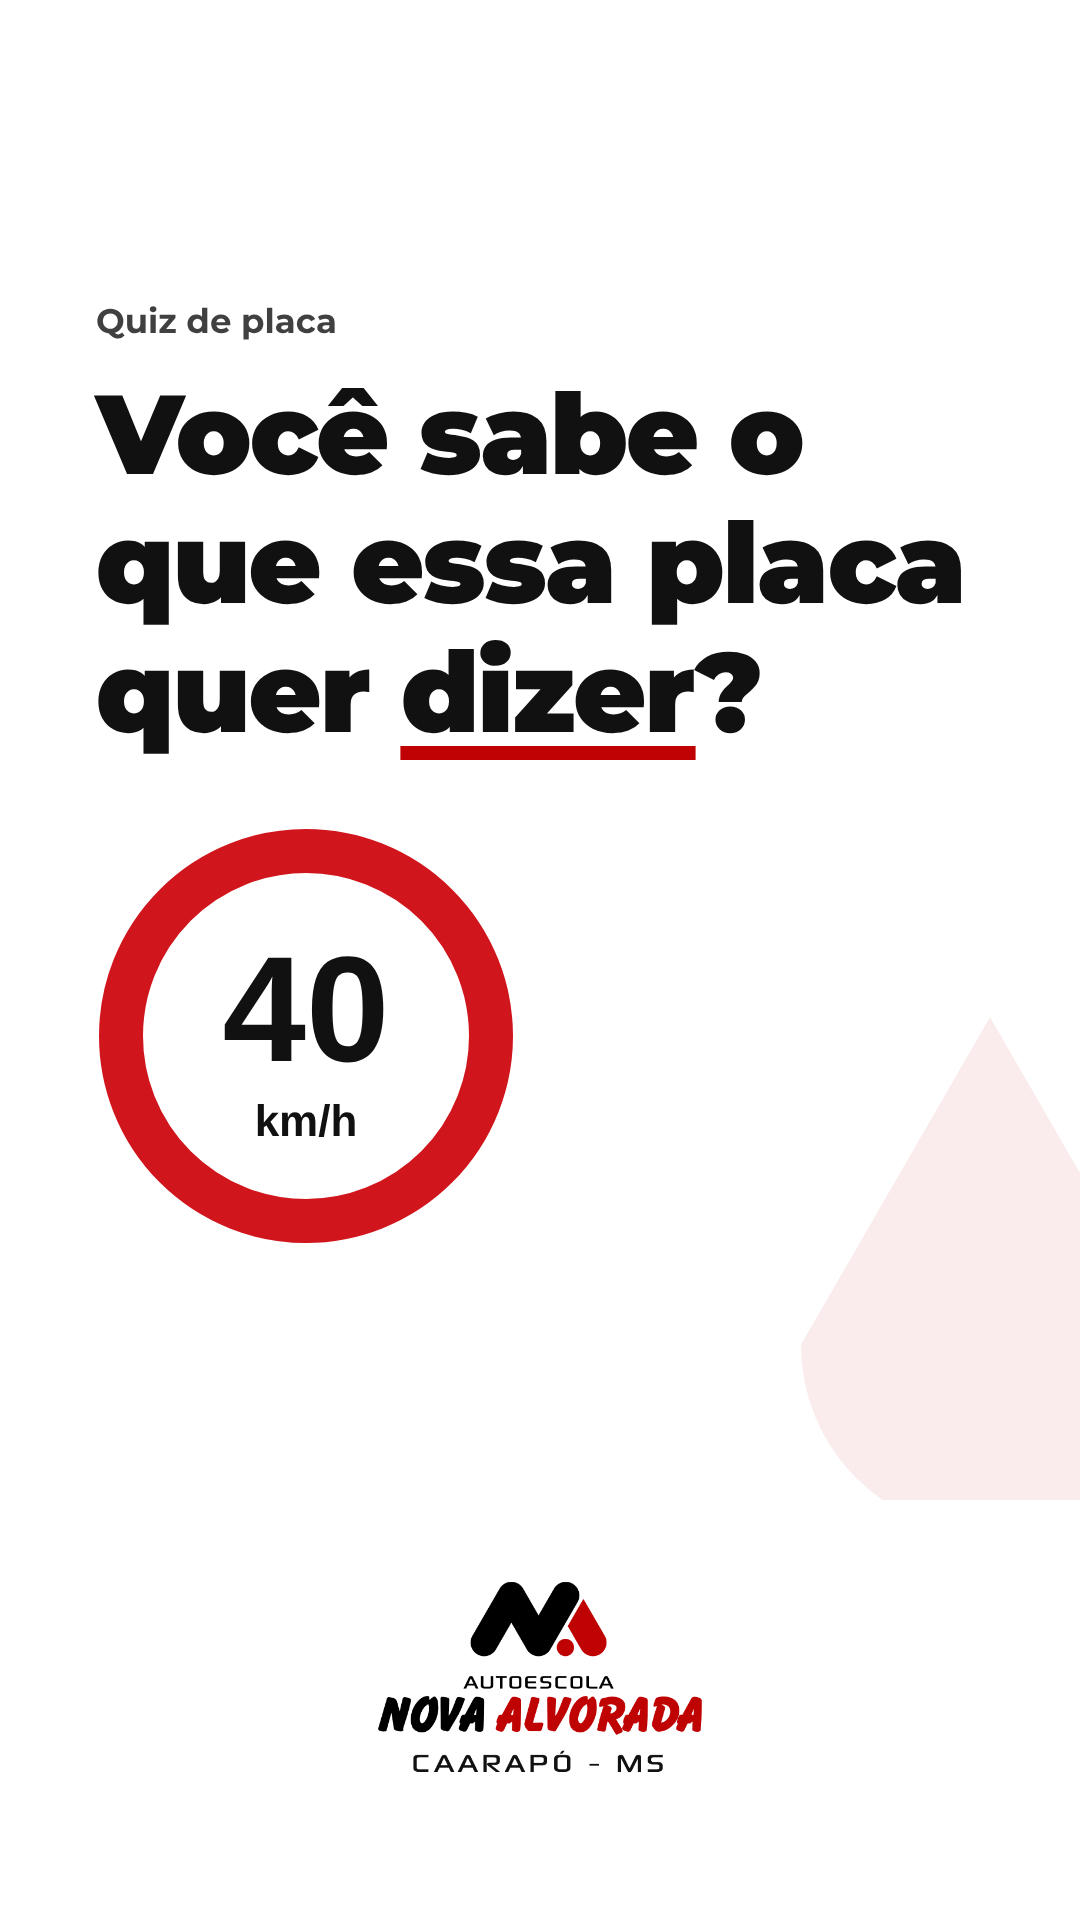
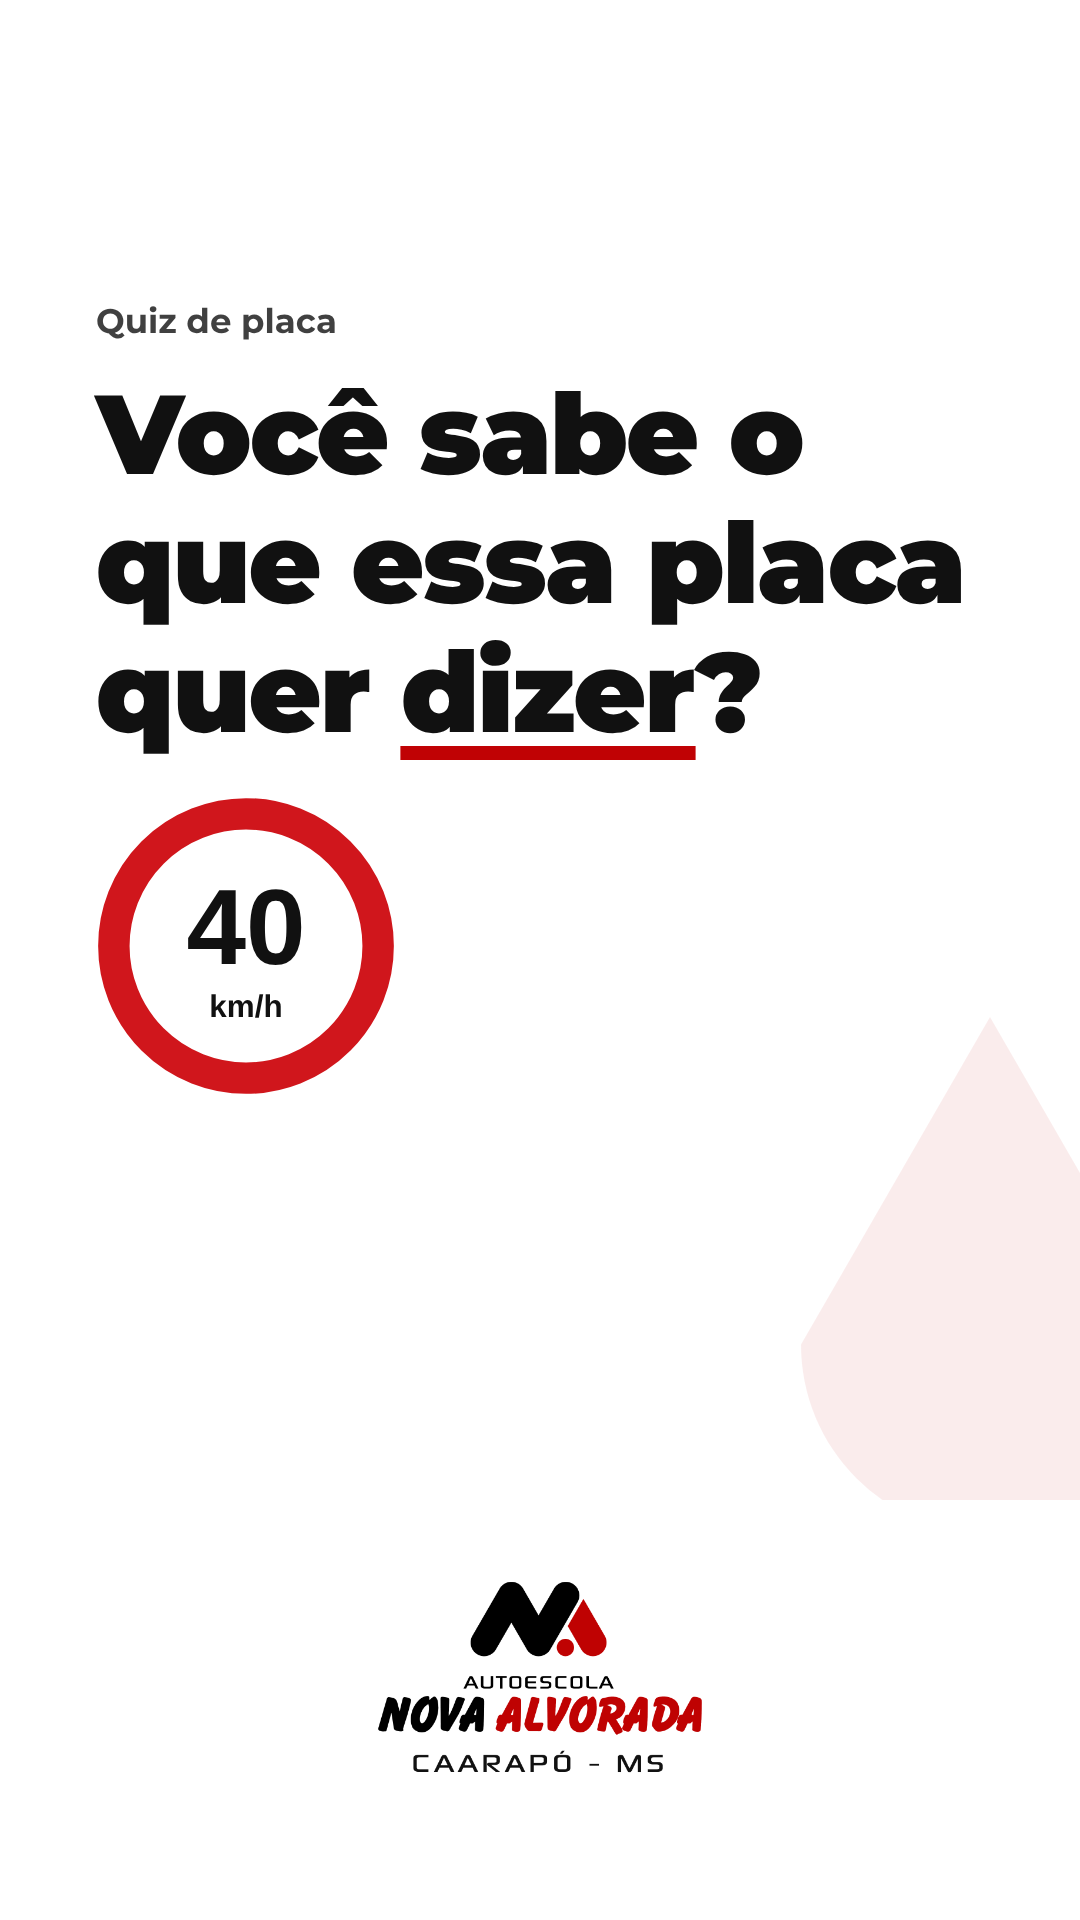
Robô: sticker no centro do espaço vazio da arte e não publica se não couber; placa de 07/11 menor
Claude-Session: https://claude.ai/code/session_01B5TzXn5urrJEAUWayRrMFS

Changed region(s): [[0.0917, 0.4062, 0.4889, 0.6562]]

diff --git a/scripts/artes/gerar_semana_2026-11-02.js b/scripts/artes/gerar_semana_2026-11-02.js
@@ -24,7 +24,7 @@ const box=(bg,t,logo='')=>`<!doctype html><html><head><meta charset="utf-8">${FO
 body{background:${bg};color:#fff}h1 em,.sub em{font-style:normal;background:#fff;color:${bg};padding:0 14px;border-radius:10px;-webkit-box-decoration-break:clone;box-decoration-break:clone}
 </style></head><body><div class="w"><div class="k">${t.k}</div><h1>${t.h}</h1>${t.sub?`<div class="sub">${t.sub}</div>`:''}</div>${logo}</body></html>`;
 const ENG='#0f3b40', CI='#2a1b8f', ciLogo=`<img class="logo" style="height:150px;border-radius:28px" src="${img('cfcint.jpg','jpeg')}">`;
-const r19=`<svg width="420" height="420" viewBox="0 0 420 420" style="margin-top:70px"><circle cx="210" cy="210" r="185" fill="#fff" stroke="#d0161c" stroke-width="44"/><text x="210" y="235" text-anchor="middle" font-family="Arial Black,Arial" font-weight="900" font-size="150" fill="#111">40</text><text x="210" y="310" text-anchor="middle" font-family="Arial" font-weight="700" font-size="44" fill="#111">km/h</text></svg>`;
+const r19=`<svg width="300" height="300" viewBox="0 0 420 420" style="margin-top:40px"><circle cx="210" cy="210" r="185" fill="#fff" stroke="#d0161c" stroke-width="44"/><text x="210" y="235" text-anchor="middle" font-family="Arial Black,Arial" font-weight="900" font-size="150" fill="#111">40</text><text x="210" y="310" text-anchor="middle" font-family="Arial" font-weight="700" font-size="44" fill="#111">km/h</text></svg>`;
 
 const CID={eldorado:{n:'Eldorado',abre:'8h',hor:'Seg a sex · 8h–11h30 e 13h–18h',var:'DYALOG_ELDORADO'},
  caarapo:{n:'Caarapó',abre:'7h',hor:'Seg a sex · 7h–11h e 13h–18h · Sáb · 8h–12h',var:'DYALOG_CAARAPO'},

diff --git a/scripts/postar_robo.py b/scripts/postar_robo.py
@@ -12,6 +12,7 @@ sys.path.insert(0, os.path.dirname(__file__))
 from avisar_whatsapp import enviar
 from coletar_insights import CONTAS, get
 from expediente import ajustar
+from espaco_livre import faixa
 
 RAIZ = os.path.join(os.path.dirname(__file__), "..")
 AG = os.path.join(RAIZ, "conteudo", "agenda")
@@ -45,6 +46,25 @@ def stickers_de(perfil, arte):
                 return None
         out.append(s)
     return out
+
+
+# Altura aproximada de cada sticker (fração da tela). Slider medido no 1º post (03/11); os outros são estimativa.
+ALTURA = {"slider": 0.24, "question": 0.24, "link": 0.08, "mention": 0.06, "hashtag": 0.06, "poll": 0.20}
+
+
+def posicionar(arte, stickers):
+    """Põe o sticker no centro da maior faixa vazia da arte. Devolve None se não couber (não publica)."""
+    a, b = faixa(os.path.join(RAIZ, arte))
+    precisa = sum(ALTURA.get(s["type"], 0.2) + (0.04 * max(0, len(s.get("options", [])) - 2) if s["type"] == "poll" else 0)
+                  for s in stickers)
+    if precisa > (b - a) + 0.01:
+        return None
+    topo = (a + b) / 2 - precisa / 2
+    for s in stickers:
+        alt = ALTURA.get(s["type"], 0.2) + (0.04 * max(0, len(s.get("options", [])) - 2) if s["type"] == "poll" else 0)
+        s["y"] = round(topo + alt / 2, 3)
+        topo += alt
+    return stickers
 
 
 def robo_cuida(perfil, cfg):
@@ -135,6 +155,8 @@ def main():
         stickers = stickers_de(perfil, s["arte"])
         if stickers is None:
             ok, motivo = False, "sticker desta arte não está em _stickers_robo.json"
+        elif stickers and posicionar(s["arte"], stickers) is None:
+            ok, motivo = False, "não há espaço vazio na arte para o sticker sem tampar o texto"
         else:
             ok, motivo = publicar(perfil, s["arte"], stickers)
         feitos[chave] = {"status": "publicado" if ok else "falhou", "quando": quando, **({"motivo": motivo} if motivo else {})}

diff --git a/scripts/espaco_livre.py b/scripts/espaco_livre.py
@@ -1,0 +1,35 @@
+"""Mede a maior faixa vazia de uma arte de story (para posicionar o sticker sem tampar nada).
+
+Considera só a área útil do story: de 15% (abaixo da barra do topo) a 85% (acima do "Enviar mensagem").
+Detalhes decorativos de baixo contraste (ex.: a gota vermelha a 18%) contam como vazio.
+Uso: python3 scripts/espaco_livre.py arte.png [...]
+"""
+import sys
+from PIL import Image
+
+TOPO, BASE, LIMIAR = 0.15, 0.85, 90
+
+
+def faixa(caminho):
+    im = Image.open(caminho).convert("RGB")
+    w, h = im.size
+    px, fundo = im.load(), im.getpixel((20, 20))
+    vazio = [max(sum(abs(a - b) for a, b in zip(px[x, y], fundo)) for x in range(0, w, 6)) < LIMIAR for y in range(h)]
+    ini, fim, melhor, y = int(h * TOPO), int(h * BASE), (0, 0), int(h * TOPO)
+    while y < fim:
+        if vazio[y]:
+            z = y
+            while z < fim and vazio[z]:
+                z += 1
+            if z - y > melhor[1] - melhor[0]:
+                melhor = (y, z)
+            y = z
+        else:
+            y += 1
+    return melhor[0] / h, melhor[1] / h
+
+
+if __name__ == "__main__":
+    for c in sys.argv[1:]:
+        a, b = faixa(c)
+        print(f"{c}: livre {a:.2f}–{b:.2f} (altura {b - a:.2f}), centro {(a + b) / 2:.2f}")
